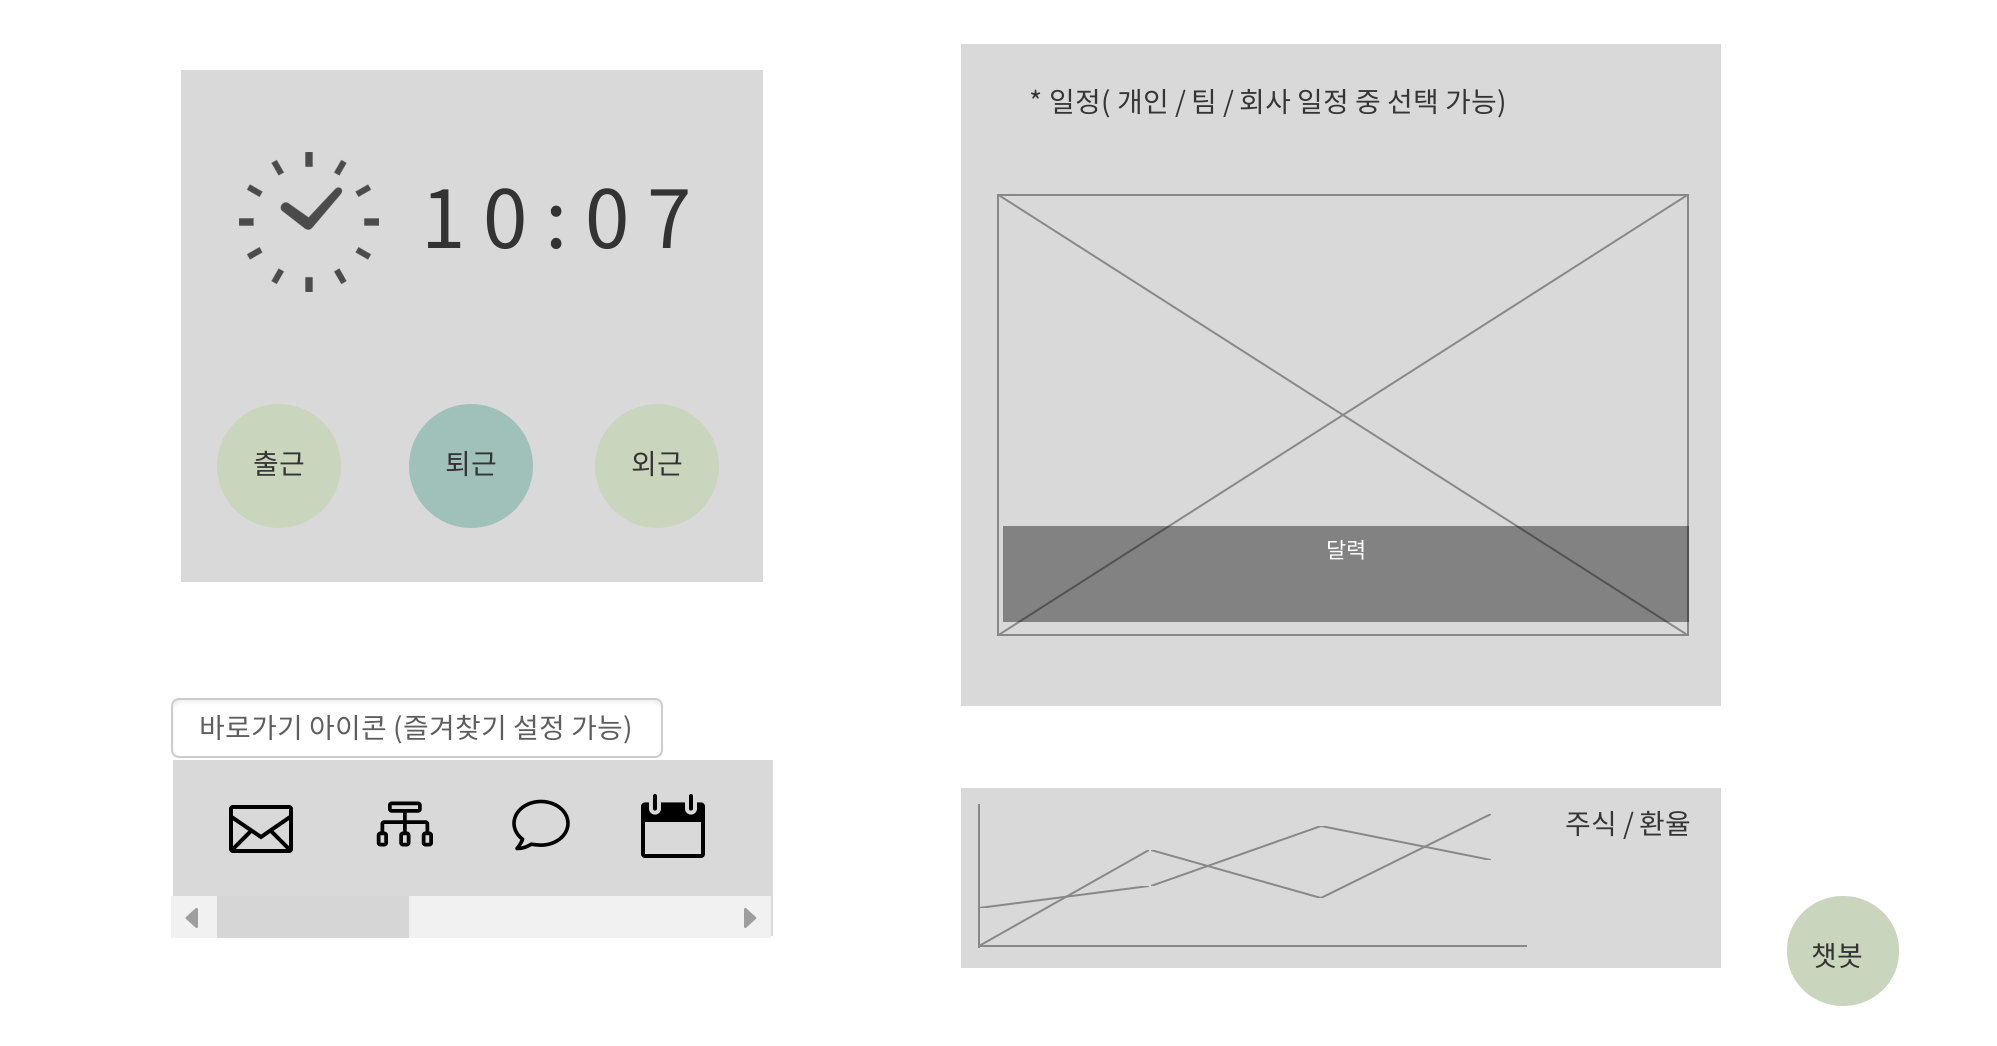
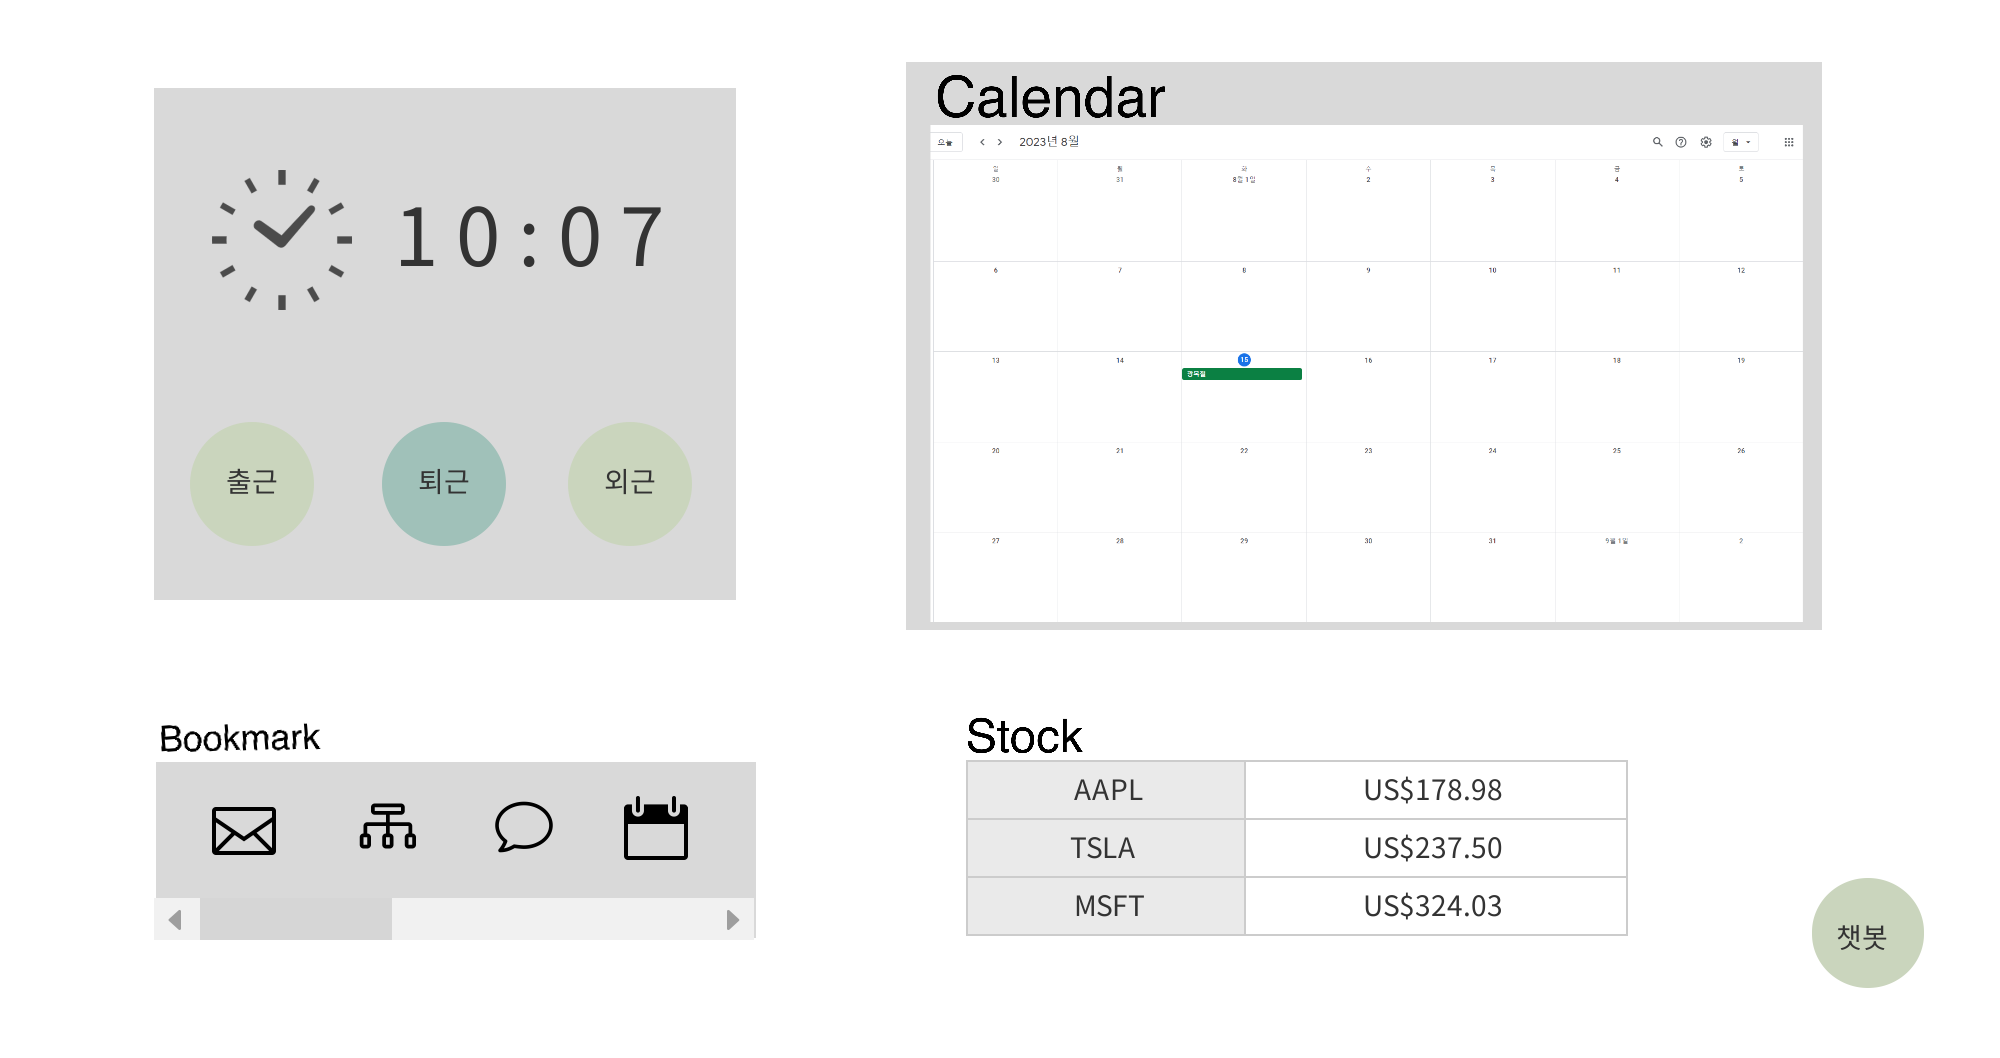
0816 메인페이지 수정 및 헤더 css 수정

diff --git a/src/main/webapp/css/M-memberlist.css b/src/main/webapp/css/M-memberlist.css
@@ -210,7 +210,7 @@ table{
 	border-bottom-color:gray;
 	font-size:16px;
 	margin-bottom:16px;
-	width:1000px;
+	width:1100px;
 }
 
 th{
@@ -221,15 +221,6 @@ th{
 	padding-top:12px;
 }
 
-/**/
-html, body {
-	width: 100%;
-	height: 100%;
-}
-
-body {
-	overflow-x: hidden;
-}
 
 h3{
 	margin-top:50px;
@@ -301,161 +292,42 @@ ul.tabs li.current{
 	margin-top:5px;
 }
 
-
-
-
-.nav_logo, #logo {
-	margin-top: 2px;
-	width: 250px;
-	height: 100%;
-	object-fit: cover;
+.admitbtn{
+	margin: auto;
+	border: none;
+ 	display: inline-block; 
+ 	background-color: #A0C1B9;
+ 	border-radius: 5px;
+ 	height:30px;
 }
-
-.sidebar {
-	position: fixed;
-	left: 0;
-	width: 270px;
-	height: 100%;
-	background-color: #284B63;
-	z-index: 40;
+.rejectbtn{
+	margin: auto;
+	border: none;
+ 	display: inline-block; 
+ 	background-color: #D9D9D9;
+ 	border-radius: 5px;
+ 	height:30px;
 }
-
-.main { /* 페이지 작성 부분 */
-	width: 100%;
-	height: 100%;
-	background-color: #FFFFFF;
-	padding-top: 60px;
-	padding-left: 270px;
+.blockbtn{
+	margin: auto;
+	border: none;
+ 	display: inline-block; 
+ 	background-color: #D9D9D9;
+ 	border-radius: 5px;
+ 	height:30px;
 }
-
-.navbar {
-	display: flex;
-	position: fixed;
-	top: 0;
-	right: 0;
-	left: 0;
-	width: 100%;
-	height: 60px;
-	background-color: #284B63;
-	z-index: 50;
-	background-color: #284B63;
-}
-
-.navbar-nav {
-	display: flex;
-	margin-left: auto;
-}
-
-.nav-item {
-	margin-top: 2px;
-	margin-right: 5px;
-	overflow: hidden;
-}
-
-.sidebar-menu {
-	width: 80%;
-	margin-top: 50px;
-	display: inline-block;
-	padding: 20px;
-	list-style-type: none;
-}
-
-.nav_logo {
-	text-decoration: none;
-	font-size: 30px;
-	color: white;
-	padding-bottom: 5px;
-}
-
-.sidebar-item {
-	width: 100%;
-	padding: 10px;
-	color: #FFFFFF;
-}
-
-.sidebar-user {
-	visibility: visible;
-}
-
-.sidebar-admin {
-	visibility: hidden;
-}
-
-.sidebar-admin>ul>li:nth-child(1) {
-	font-size: 14pt;
-	font-weight: bold;
-	font-size: 15pt;
-}
-
-.btn_menu {
-	height:25px;
-	position: absolute;
-	left: -5px;
-	bottom: 10px;
-	color: white;
-	border: 0;
-	background-color: #284B63;
-	font-size: 11pt;
-	font-weight: bold;
-	width: 100%;
-	padding: 0px;
-}
-
-.btn_menu:hover {
-	cursor: pointer;
+.modifybtn{
+	margin: auto;
+	border: none;
+ 	display: inline-block; 
+ 	background-color: #A0C1B9;
+ 	border-radius: 5px;
+ 	height:30px;
 }
 
 
-.sidebar-anchor {
-	display: block;
-	text-decoration: none;
-	font-size: 11pt;
-	color: #FFFFFF;
-}
-
-.sidebar-anchor + .second-menu {
-	list-style-type: none;
-	height:0px;
-	overflow:hidden;
-	transition: all ease 0.5s;
-
-}
-
-.second-menu {
-	padding-left: 30px;	
-}
-.sidebar-anchor-collapse + .second-menu {
-	list-style-type: none;
-	transition: all ease 0.5s;
-}
-
-.coll-arrow {
-	margin-top: 4px;
-	float: right; width : 7%;
-	height: 7%;
-	width: 7%;
-	transition: all ease 0.5s;
-}
-
-.sidebar-anchor-collapse .coll-arrow{
-	margin-top: 4px;
-	float: right; width : 7%;
-	height: 7%;
-	width: 7%;
-	transition: all ease 0.5s;
-	transform: rotate(90deg);
-}
 
 
-	
-.second-item {
-	font-size: 10pt;
-	margin: 10px;
-}
-
-a.second-anchor {
-	text-decoration: none;
-	font-size: 10pt;
-	color: #FFFFFF;
-	
+a{
+  text-decoration: none;
 }

diff --git a/src/main/webapp/css/header.css b/src/main/webapp/css/header.css
@@ -63,9 +63,28 @@ body {
   	height:100%
 }
 
-#header-alarm, #navprofile, #header-setting {
+#header-alarm  {
 	width:40px;
-	height:40px;
+	height:35px;
+	border-right: 1px #909090 solid;
+	padding: 0 10px;
+}
+
+.navlogout{
+	width:40px;
+	height:35px;
+	border-left: 1px #909090 solid;
+	padding: 0 10px;
+}
+
+#navprofile{
+	margin-right: 10px;
+}
+
+ .navprofile, #header-setting{
+	width:40px;
+	height:35px;
+	padding: 0 10px;
 }
 
 
@@ -73,11 +92,6 @@ body {
 	margin-top: 2px;
 	margin-right: 5px;
 	overflow: hidden;
-}
-
-#header-setting, #header-alarm {
-	width: 100%;
-	height: 100%;
 }
 
 .sidebar-menu {
